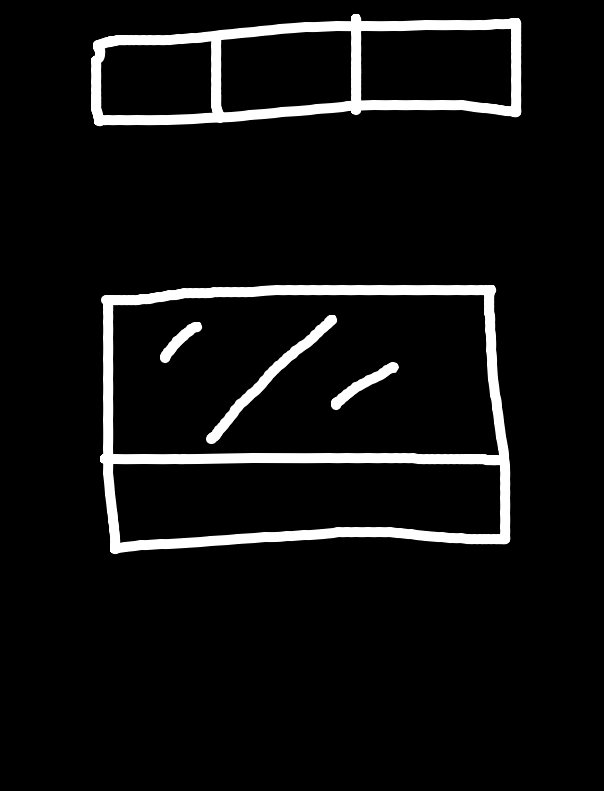
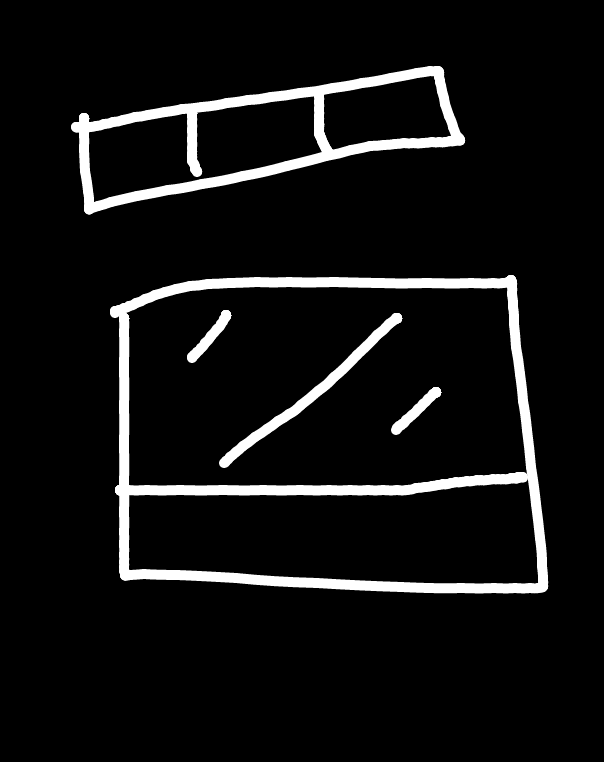
working server

Changed region(s): [[0.149, 0.3622, 0.9238, 0.7848], [0.1192, 0.0, 0.8642, 0.3018], [0.6854, 0.5131, 0.745, 0.5433]]

diff --git a/output.html b/output.html
@@ -1,1 +1,1 @@
-<!DOCTYPE html><html lang="en"><head><title>DevTips Starter Kit</title><meta charset="utf-8"><meta name="viewport" content="width=device-width, initial-scale=1"><link rel="shortcut icon" href="assets/img/favicons/favicon.ico"><script src="assets/js/reload.js"></script><link rel="stylesheet" href="main.css" /></head><body><div class="header"> <div class="logo"><img src="assets/img/hsbc-logo.svg"></div> </div> <div class="heading"> <div class="page-type"> ACCOUNT LINKING </div> </div> <div class="loadingbar"></div> <div class="container"><img class="img-box" id=" dcdccdcdc" src="assets/img/image.jpg" style="margin-top:21.365360303413404vh;height:32.743362831858406vh">
+<!DOCTYPE html><html lang="en"><head><title>DevTips Starter Kit</title><meta charset="utf-8"><meta name="viewport" content="width=device-width, initial-scale=1"><link rel="shortcut icon" href="assets/img/favicons/favicon.ico"><script src="assets/js/reload.js"></script><link rel="stylesheet" href="main.css" /></head><body><div class="header"> <div class="logo"><img src="assets/img/hsbc-logo.svg"></div> </div> <div class="heading"> <div class="page-type"> ACCOUNT LINKING </div> </div> <div class="loadingbar"></div> <div class="container"><img class="img-box" id=" rtvrvrfvfvf" src="assets/img/image.jpg" style="margin-top:9.31758530183727vh;height:40.419947506561684vh">

diff --git a/server2.py b/server2.py
@@ -8,6 +8,7 @@ import pickle
 from scipy import misc
 from preprocessing import preprocess
 app.config['SECRET_KEY'] = 'mysecret'
+app.config["CACHE_TYPE"] = "null"
 socketio = SocketIO(app)
 import layout_gen
 # class_keys = ['TextView','ImageView','Header','EditText','Button']
@@ -35,6 +36,9 @@ from yolo_classifier import YoloClassifier
 from scipy import misc
 import utils
 import shutil
+
+
+
 
 def normalizing(X):
     return X/255
